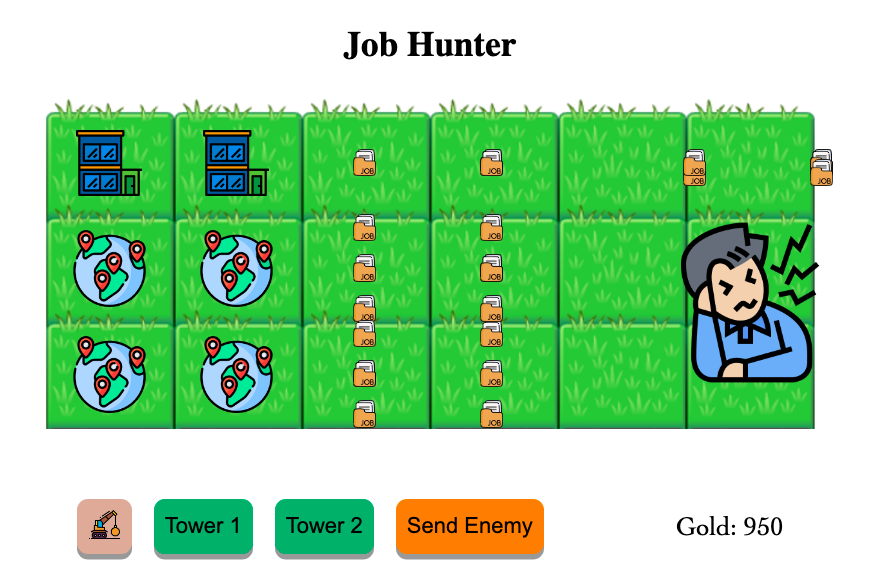
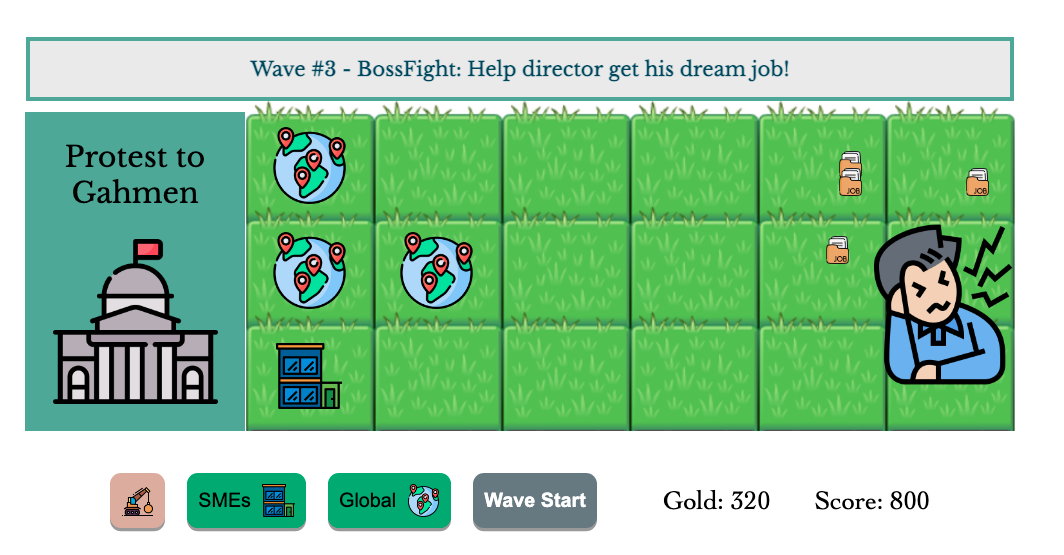
Edit Readme

diff --git a/main.js b/main.js
@@ -136,8 +136,9 @@ function escape(e) {
                         square.classList.remove("activedTwo")
                         square.classList.remove("demolishTower")
                 }
+                escKeyPress(false)
         }
-        escKeyPress(false)
+
 }
 
 function unblockedButton() {
@@ -281,14 +282,14 @@ function demolish(e) {
         if (e.target.classList.contains("buildSmallTower")) {
                 e.target.setAttribute("class", "towerGround")
                 allTowers.splice(indexNum, 1) // remove from parentArray, typo indexMap -> indexNum
-                editGold(+50)
+                editGold(+40)
                 e.target.removeAttribute("id")
                 console.log("Small tower is deleted")
 
         } else if (e.target.classList.contains("buildBigTower")) {
                 e.target.setAttribute("class", "towerGround")
                 allTowers.splice(indexNum, 1)
-                editGold(+110)
+                editGold(+100)
                 e.target.removeAttribute("id")
                 console.log("Big tower is deleted")
         }
@@ -384,6 +385,10 @@ class Enemy extends GameObject {
                 super("./assets/confused.png", x, y)
                 this.speed = speed;
                 this.DOMElement.setAttribute("class", this.className)
+        }
+
+        died() {
+
         }
 
         move() {
@@ -487,7 +492,7 @@ class UpDiagonalBullet extends Bullet {
                 this.y -= this.speed / 6
                 this.DOMElement.style.left = this.x + "px"
                 this.DOMElement.style.top = this.y + "px"
-                if (this.x >= 700 || this.y < 0) {
+                if (this.x >= 700 || this.y < -30) {
                         removeFromArray(allBullets, this.DOMElement, this.id)
                 }
         }
@@ -536,7 +541,7 @@ class SmallTower extends GameObject {
 
 
         sendBullet() {
-                let interview = new Bullet(this.x, this.y, 10)
+                let interview = new Bullet(this.x, this.y, 12)
                 allBullets.push(interview)
                 allBullets.forEach(bullet => gameScreen.append(bullet.DOMElement))
         }
@@ -564,9 +569,9 @@ class BigTower extends GameObject {
         }
 
         sendBullet() {
-                let interview = new Bullet(this.x, this.y, 10)
-                let interview2 = new UpDiagonalBullet(this.x, this.y, 10)
-                let interview3 = new DownDiagonalBullet(this.x, this.y, 10)
+                let interview = new Bullet(this.x, this.y, 12)
+                let interview2 = new UpDiagonalBullet(this.x, this.y, 12)
+                let interview3 = new DownDiagonalBullet(this.x, this.y, 12)
                 allBullets.push(interview)
                 allBullets.push(interview2)
                 allBullets.push(interview3)
@@ -619,7 +624,7 @@ function summonEnemy(limit, type, speed) {
                 if (enemyCount === limit) {
                         clearInterval(interval)
                 }
-        }, 2000);
+        }, 3000);
         enemyCount = 0;
 }
 

diff --git a/README.md b/README.md
@@ -9,35 +9,30 @@ Player build towers to send job interviews to Job Applicants. Everyone have to g
 
 # How to Play
 
-1. Build companies (SMEs or Global company) with your gold
+1. Build companies (SMEs is 50 Gold, and Global is 200 Gold), then press "Done"
 1. Pressed "Wave Start" button to welcome job applicants
-1. Companies will automaticly invite them for interviews
+1. Companies will automaticly send job interviews
+1. Demolish a tower will get 50% of cost
 1. Beware: Boss Fight at level-3
 
 
-# Project Progress
+# Project Features
 
-1. Create Initial Game Screen & Try summoning enemy from various spots in different interval
-![background](./assets/readme/test-spawningAndMoving-enemy.jpg)
-
-1. Do Major Change: Adding 'GameObject' class as a fundamental of other objects (Tower, Bullets, Enemy). Set some get dimension() to help in calculating collision
+1. Used 'GameObject' class as a fundamental of other objects (Tower, Bullets, Enemy). Set some get dimension() to help in calculating collision
 ![background](./assets/readme/getter.jpg)
+
+1. Set unique id for each 'GameObject' to help calling their index when we want to edit/remove from main arrays
 
 1. Test the enemy damage taken on bullets from different directions
 ![background](./assets/readme/testing-collision-diff-angle.jpg)
 
-1. Tag SmallTower with 1-bullet-shot, and BigTower with 3-bullets-shot
-![background](./assets/readme/tag-bullet-to-tower-type.jpg)
 
-1. Set unique id for each 'GameObject' to help calling their index when we want to remove from main arrays
-
-1. Test whole collision, removing enemies & bullets from array, and add +50 gold for each enemy died
-![background](./assets/readme/addGold-and-remove-enemy-from-allEnemies.jpg)
-
-1. Add the tower by clicking the button, followed by clicking the desired location. Enemy will appear in random rows and different quantity in each levels
+1. Add a tower by clicking the button followed by grayed-ground. SMEs shoot 1-bullet, meanwhile Global shoot 3-bullets.
 ![background](./assets/readme/build-by-clicking.jpg)
+
+1. Enemy spawns in random rows with bullet-collisions-receptors from various directions. Enemy will generate +50 gold and +100 score
+![background](./assets/readme/enemy-spawn-randomly.jpg)
+
 
 1. Fighting against Boss - with huge health, at 3rd level
 ![background](./assets/readme/boss-fight.jpg)
-
-1. Create game-start-modal, game-end-modal, and interacting audio effects.
